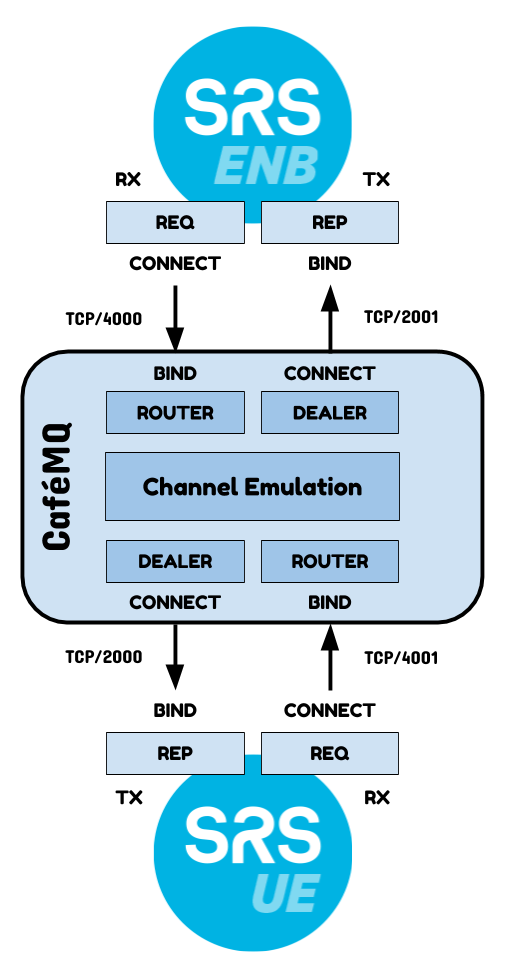
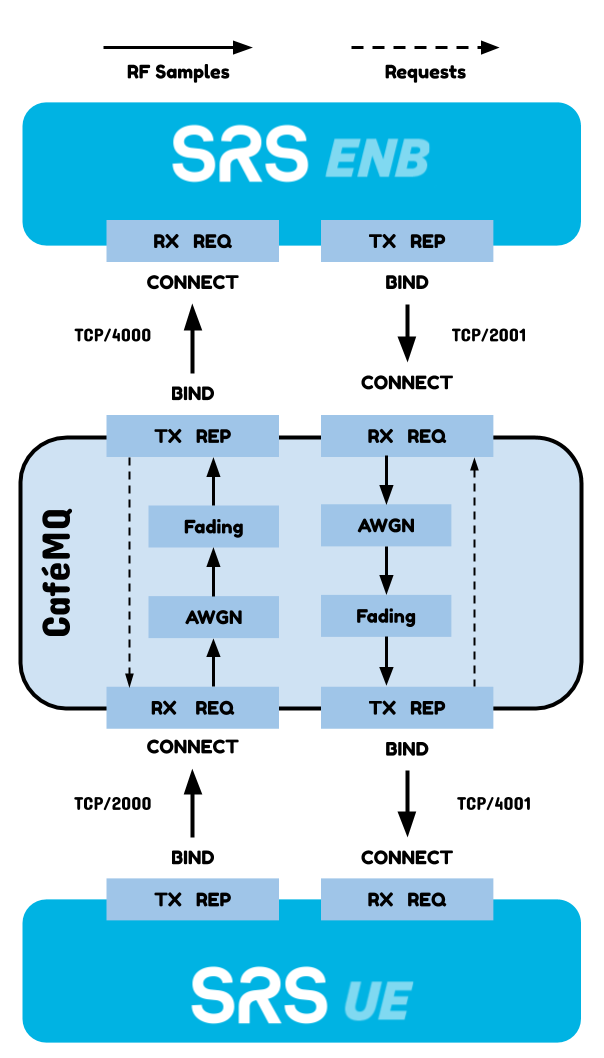
Update architecture

diff --git a/src/main.rs b/src/main.rs
@@ -4,25 +4,28 @@ extern crate cafemq;
 
 fn main() {
     let context = zmq::Context::new();
-    let rx = context.socket(zmq::REP).unwrap();
-    let tx = context.socket(zmq::REQ).unwrap();
+    let rx = context.socket(zmq::REQ).unwrap();
+    let tx = context.socket(zmq::REP).unwrap();
 
-    assert!(rx.bind("tcp://*:4000").is_ok());
-    assert!(tx.connect("tcp://localhost:2000").is_ok());
+    assert!(rx.connect("tcp://localhost:2000").is_ok());
+    assert!(tx.bind("tcp://*:4000").is_ok());
 
+    // Request from tx
+    let mut dummy;
+    let mut samples;
     loop {
-        let mut msg;
-        msg = rx.recv_multipart(0).unwrap();
-        println!("RX");
-        for i in &msg {
+        // Forward request from tx to rx.
+        dummy = tx.recv_bytes(0).unwrap();
+        println!("Received request");
+        println!("{}", hex::encode(&dummy));
+        rx.send(&dummy, 0).unwrap();
+
+        samples = rx.recv_multipart(0).unwrap();
+        for i in &samples {
+            let samples = i;
             //println!("{}", hex::encode(i));
-            tx.send(i, 0).unwrap();
+            tx.send(&samples, 0).unwrap();
         }
-        msg = tx.recv_multipart(0).unwrap();
-        println!("TX");
-        for i in &msg {
-            //println!("{}", hex::encode(i));
-            rx.send(i, 0).unwrap();
-        }
+        println!("{} samples responsed", 0);
     }
 }
